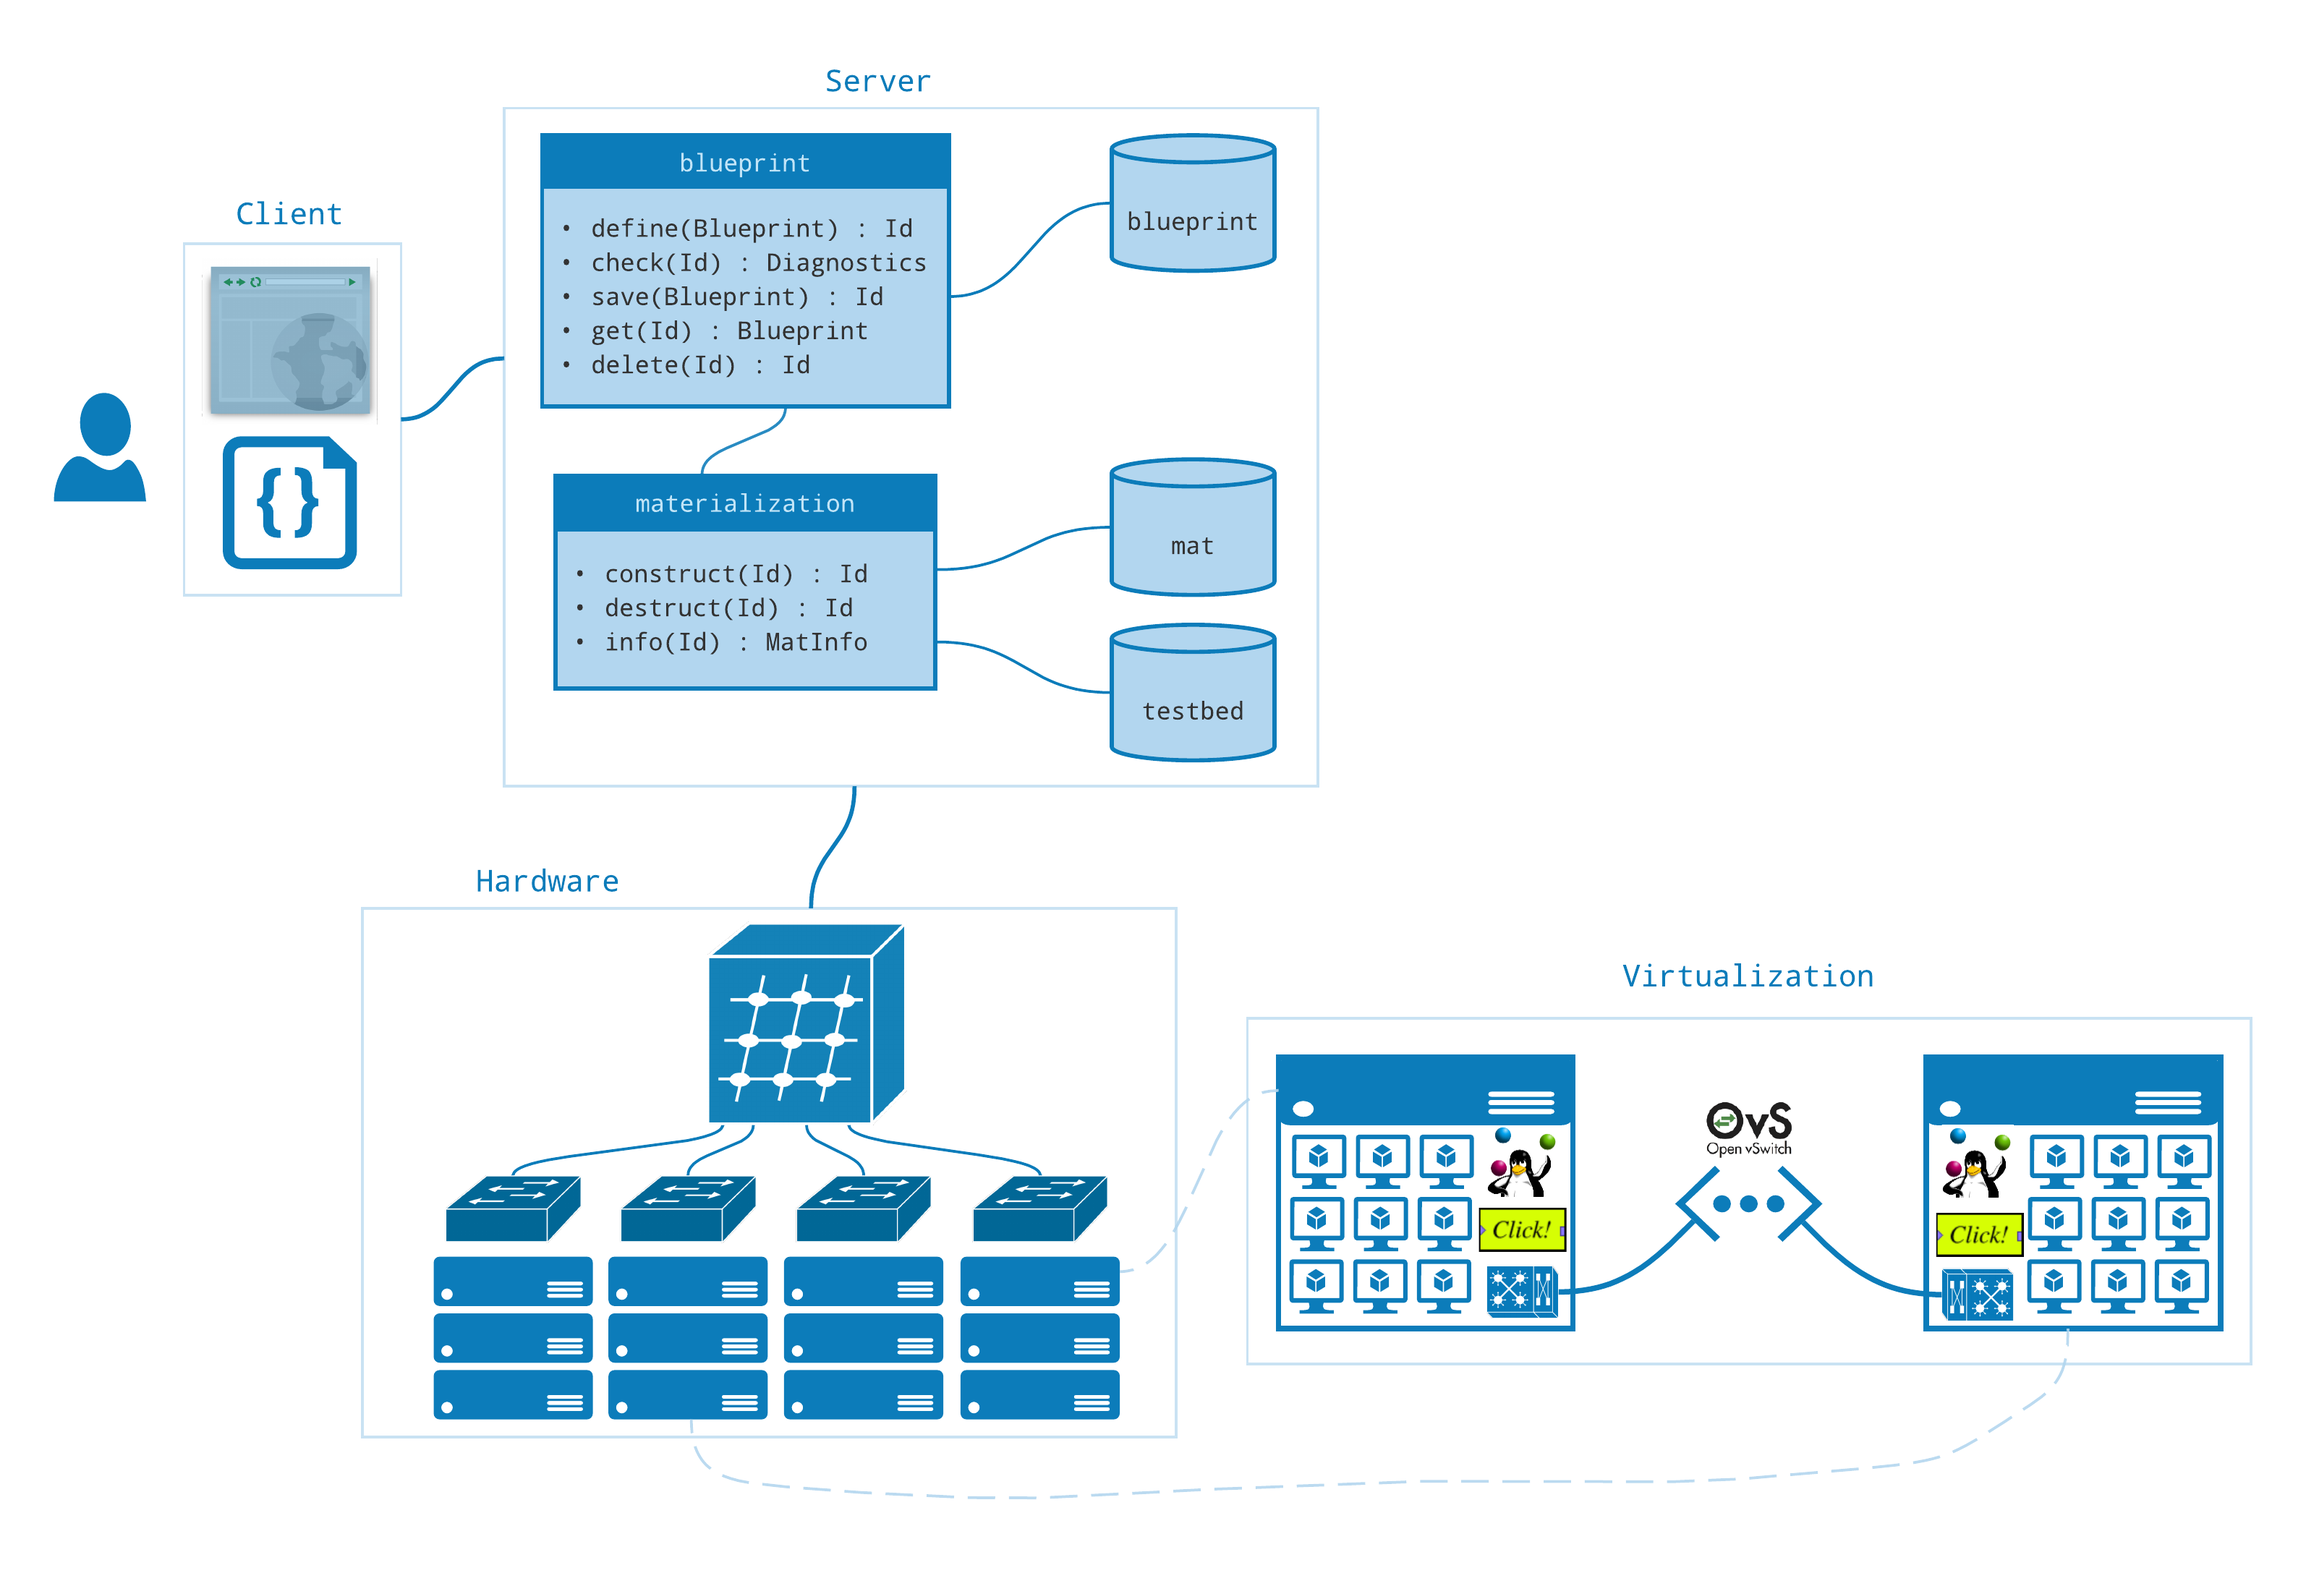
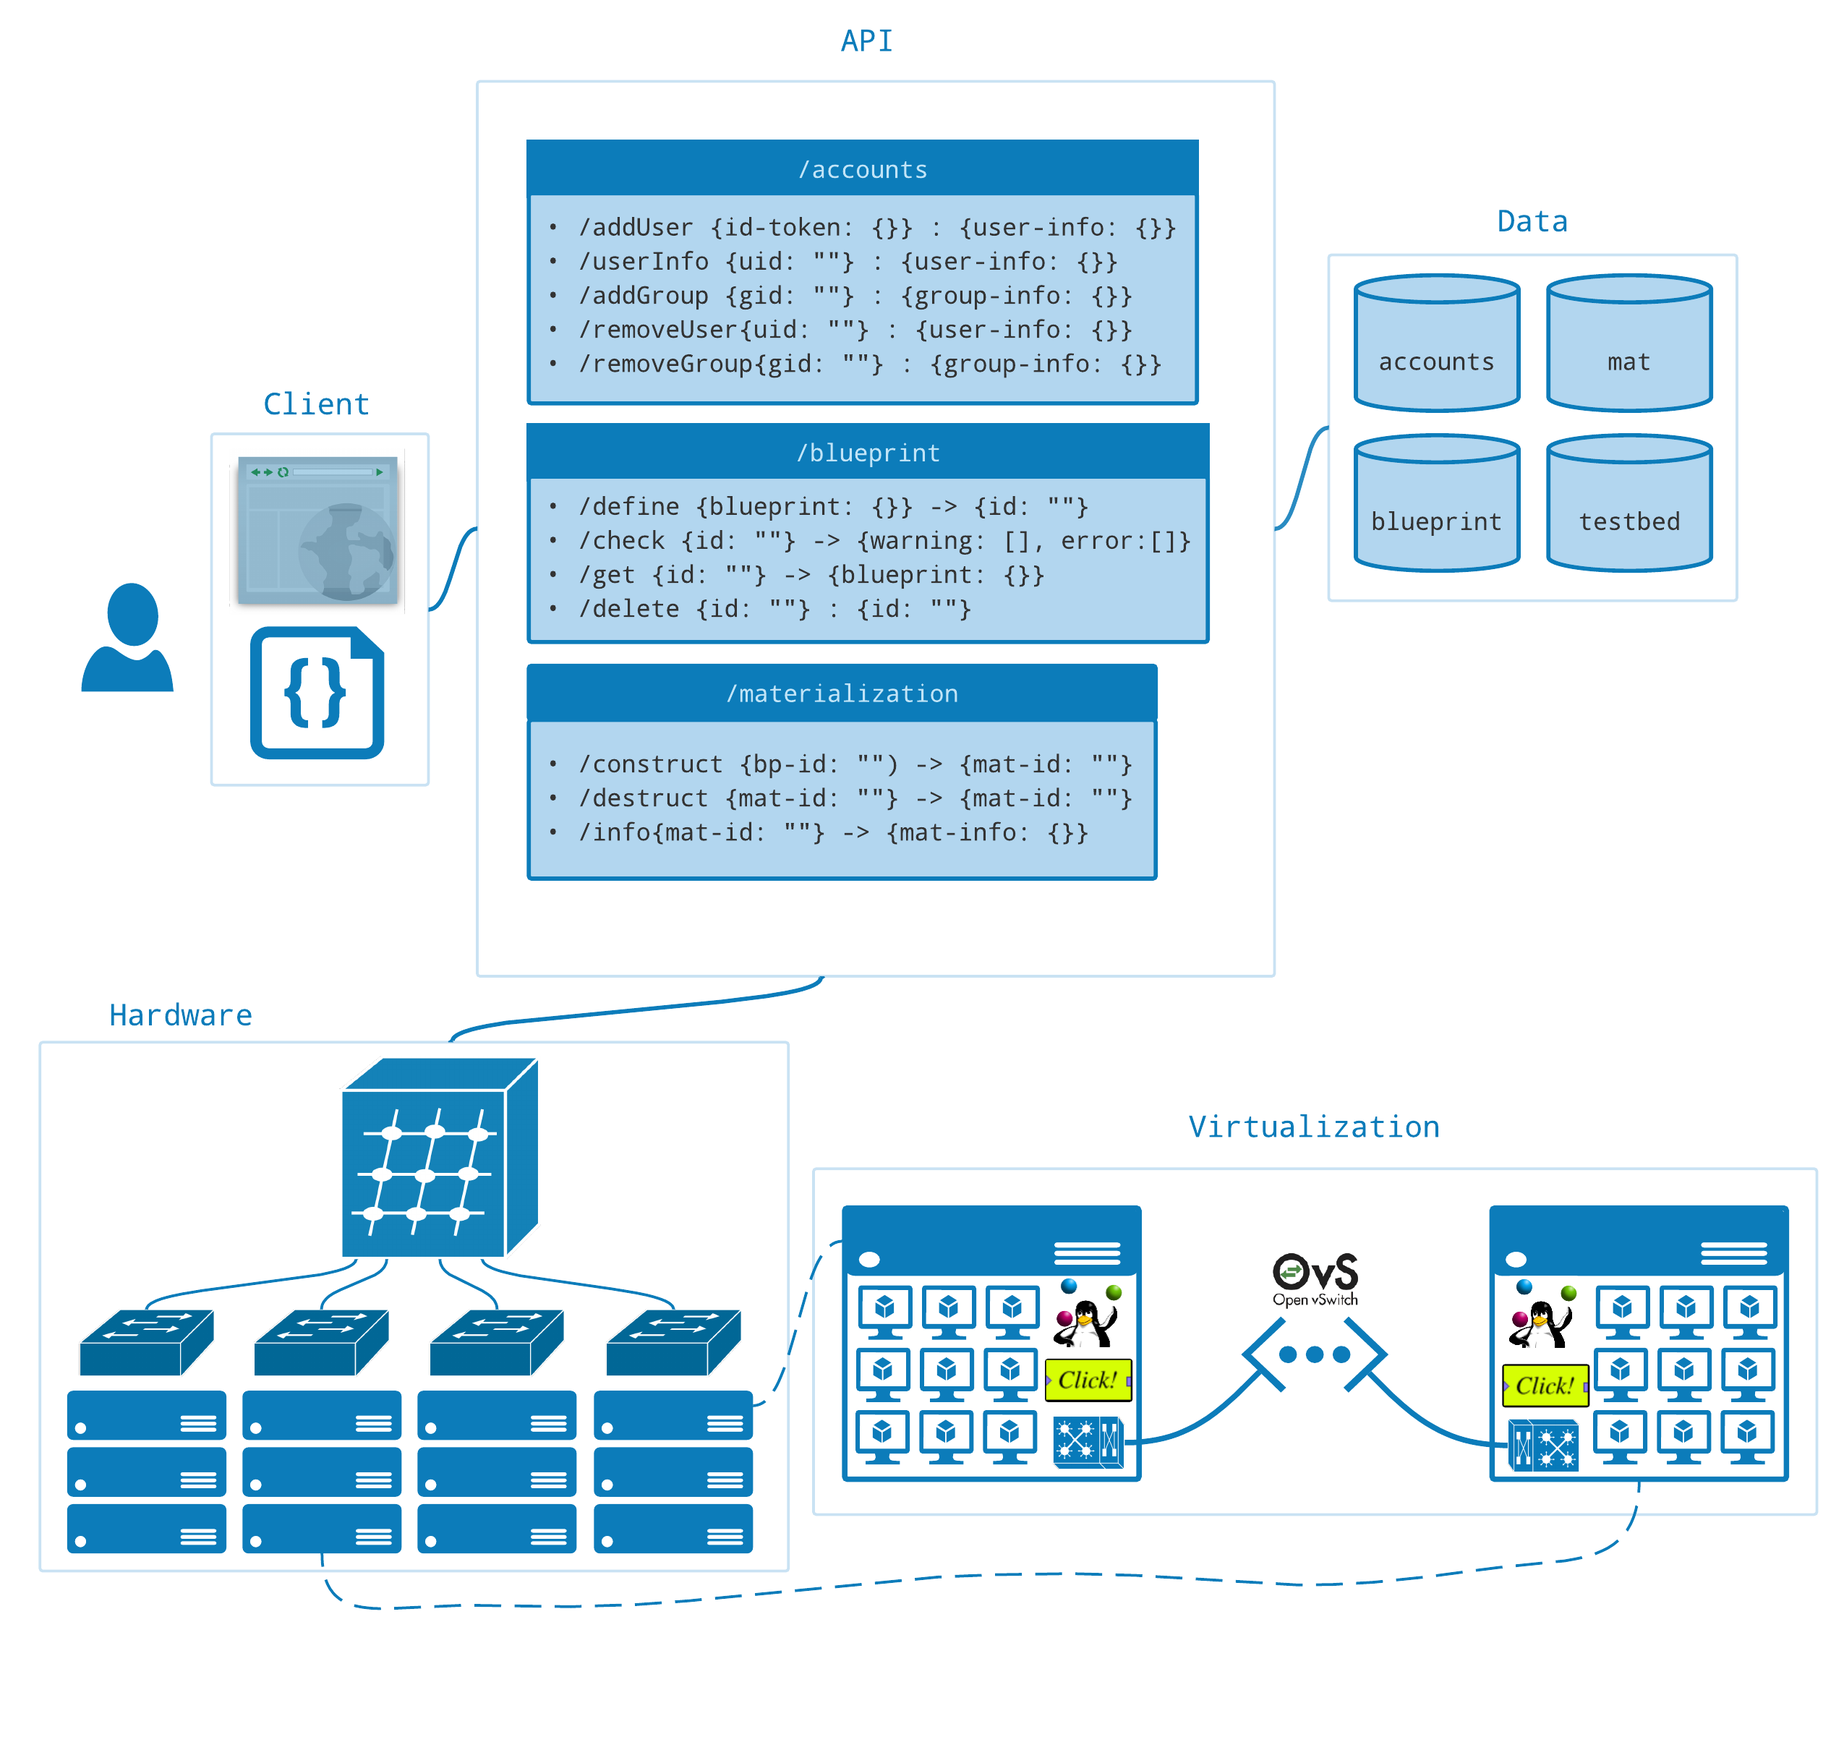
update arch, +virt, +mat, +user, +fed

diff --git a/docs/index.css b/docs/index.css
@@ -1,0 +1,8 @@
+img
+{ 
+  background-color: transparent !important;  
+  border:none !important; 
+}
+img[alt=vnet] { width: 40%; }
+img[alt=vnet-embed-simple] { width: 70%; }
+img[alt=user-access] { width: 70%; }

diff --git a/docs/index.md b/docs/index.md
@@ -1,4 +1,15 @@
-# Marina Network Testbed Docs
+# Design & Implementation Docs
 
 ## Architecture
-![Architecture](img/arch.png)
+![arch](img/arch.png)
+
+## Virtualization & Materialization
+![vnet](img/vnet.png)
+![vnet-embed-simple](img/vnet-embed-simple.png)
+![vnet-embed-detail](img/vnet-embed-detail.png)
+
+## User Access & Federation
+### User Access
+![user-access](img/user-access.png)
+### Federation
+![federation](img/federation.png)
